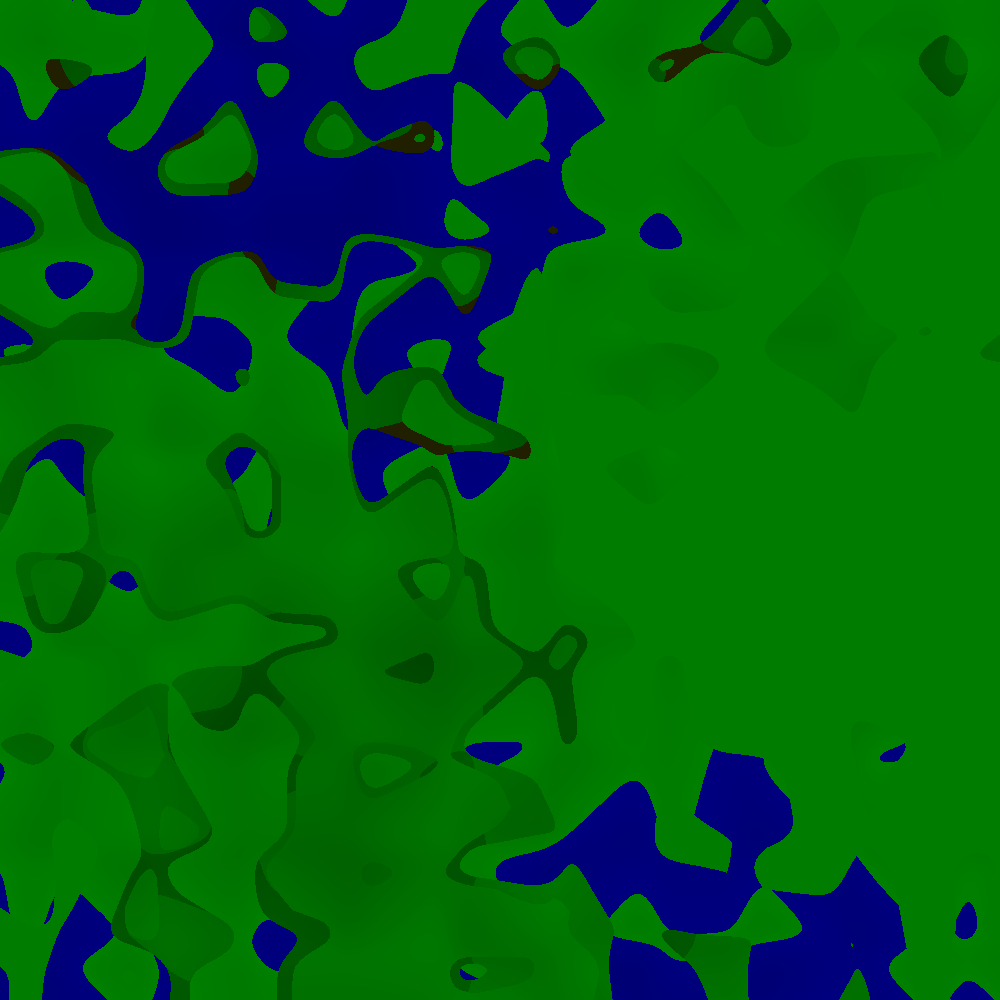
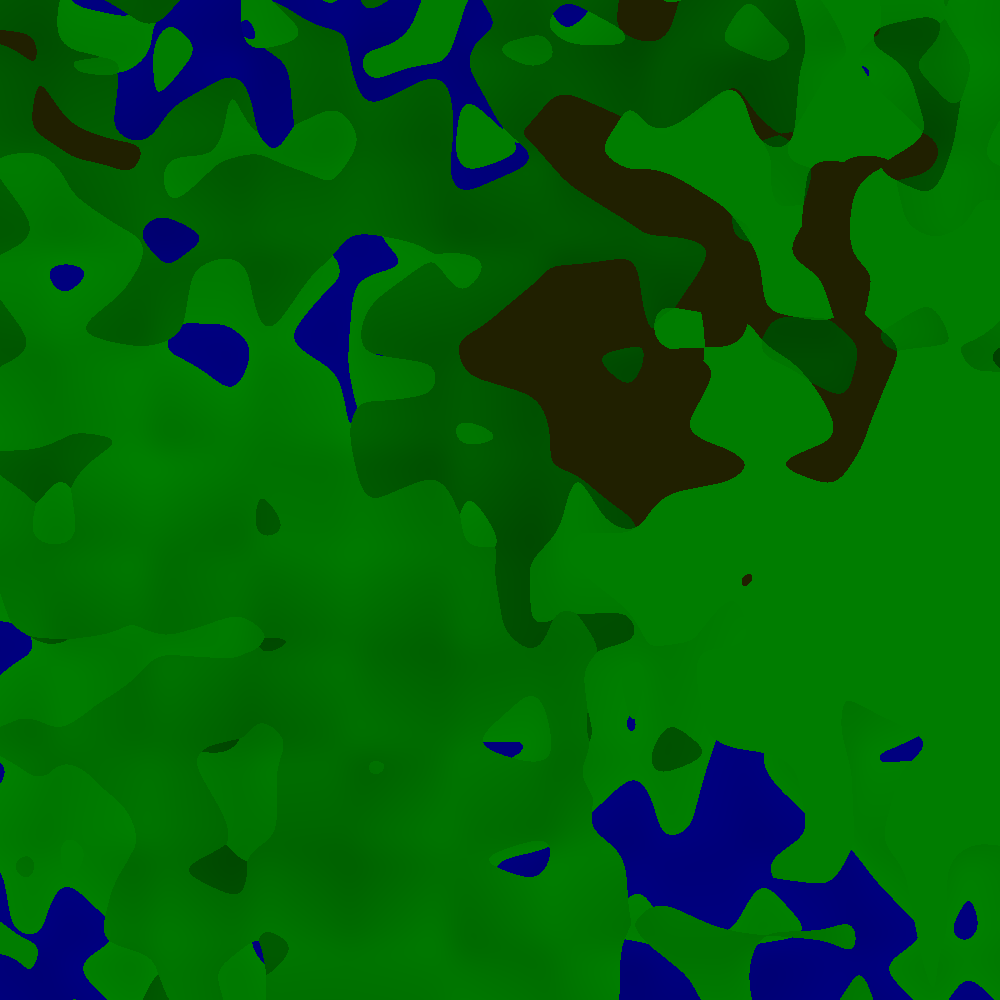
"montagne" back

diff --git a/lib/src/test/java/procedural_generation/Biomes1Test.java b/lib/src/test/java/procedural_generation/Biomes1Test.java
@@ -88,21 +88,21 @@ public class Biomes1Test {
         }
 
         HashMap<ClimatRule, ClimatMinMax> climatMinMaxes1 = new HashMap<>();
-        climatMinMaxes1.put(temperature, new ClimatMinMax(0.4, 0.5, 0.3));
-        climatMinMaxes1.put(humidity, new ClimatMinMax(0.6, 0.65, 0.3));
+        climatMinMaxes1.put(temperature, new ClimatMinMax(0.4, 0.45, 0.4));
+        climatMinMaxes1.put(humidity, new ClimatMinMax(0.6, 0.65, 0.4));
         Biome plaine = new SimpleBiome(0.51, "plaine", climatMinMaxes1);
         biomes.add(plaine);
 
         HashMap<ClimatRule, ClimatMinMax> climatMinMaxes2 = new HashMap<>();
-        climatMinMaxes2.put(wind, new ClimatMinMax(0.5, 0.6, 0.5));
-        climatMinMaxes2.put(temperature, new ClimatMinMax(0.8, 0.9, 0.4));
-        climatMinMaxes2.put(humidity, new ClimatMinMax(0.0, 0.4, 0.4));
+        climatMinMaxes2.put(wind, new ClimatMinMax(0.5, 0.6, 0.6));
+        climatMinMaxes2.put(temperature, new ClimatMinMax(0.8, 0.9, 0.5));
+        climatMinMaxes2.put(humidity, new ClimatMinMax(0.0, 0.4, 0.5));
         Biome desert = new SimpleBiome(0.6, "desert", climatMinMaxes2);
         biomes.add(desert);
 
         HashMap<ClimatRule, ClimatMinMax> climatMinMaxes3 = new HashMap<>();
-        climatMinMaxes3.put(wind, new ClimatMinMax(0.6, 0.8, 0.4));
-        climatMinMaxes3.put(temperature, new ClimatMinMax(0.0, 0.5, 0.3));
+        climatMinMaxes3.put(wind, new ClimatMinMax(0.6, 0.8, 0.6));
+        climatMinMaxes3.put(temperature, new ClimatMinMax(0.0, 0.4, 0.5));
         Biome montagne = new SimpleBiome(0.8, "montagne", climatMinMaxes3);
         biomes.add(montagne);
 
@@ -117,7 +117,6 @@ public class Biomes1Test {
         BufferedImage biomeDesert = new BufferedImage(width, high, BufferedImage.TYPE_INT_RGB);
         for (int x = 0; x < width; x++) {
             for (int y = 0; y < high; y++) {
-                HashMap<ClimatRule, Double> values = biomesManager.getClimatRuleDoubleHashMap(x, y, 0.0);
                 HashMap<Biome, Double> biomeValues = biomesManager.getBiomes(x, y, 0.0);
                 // get values
                 Double montagneValue = biomeValues.get(montagne);

diff --git a/lib/src/main/java/procedural_generation/biomes/BiomesManager.java b/lib/src/main/java/procedural_generation/biomes/BiomesManager.java
@@ -42,8 +42,8 @@ public class BiomesManager {
     /**
      * It returns a HashMap of Biome and Double, where the Double is the percentage of the Biome at the given coordinates
      *
-     * @param x the x coordinate of the point
-     * @param y the y coordinate of the point
+     * @param x               the x coordinate of the point
+     * @param y               the y coordinate of the point
      * @param currentAltitude the altitude of the current point
      * @return A HashMap of Biome and Double.
      */
@@ -51,18 +51,26 @@ public class BiomesManager {
         HashMap<Biome, Double> biomePourcent = new HashMap<>();
         HashMap<ClimatRule, Double> climatPourcent = getClimatRuleDoubleHashMap(x, y, currentAltitude);
         double sum = 0;
+        double max = 0.73;
+        Biome biomeMax = null;
         for (Biome biome : biomes) {
             double pourcent = biome.pourcent(x, y, currentAltitude, climatPourcent, altitude);
-            if (pourcent > 0.73) {
-                biomePourcent.clear();
-                biomePourcent.put(biome, pourcent);
-                return biomePourcent;
+            if (pourcent > max) {
+                max = pourcent;
+                biomeMax = biome;
             }
 
             biomePourcent.put(biome, pourcent);
             sum += pourcent;
 
         }
+
+        if (biomeMax != null) {
+            biomePourcent.clear();
+            biomePourcent.put(biomeMax, max);
+            return biomePourcent;
+        }
+
         // normalize
         for (Biome biome : biomePourcent.keySet()) {
             double pourcent = biomePourcent.get(biome);
@@ -74,8 +82,8 @@ public class BiomesManager {
     /**
      * It returns a HashMap of ClimatRule and Double, which is the climat pourcent for each climat rule
      *
-     * @param x the x coordinate of the point
-     * @param y the y coordinate of the point
+     * @param x               the x coordinate of the point
+     * @param y               the y coordinate of the point
      * @param currentAltitude the altitude of the current point
      * @return A HashMap of ClimatRule and Double.
      */
